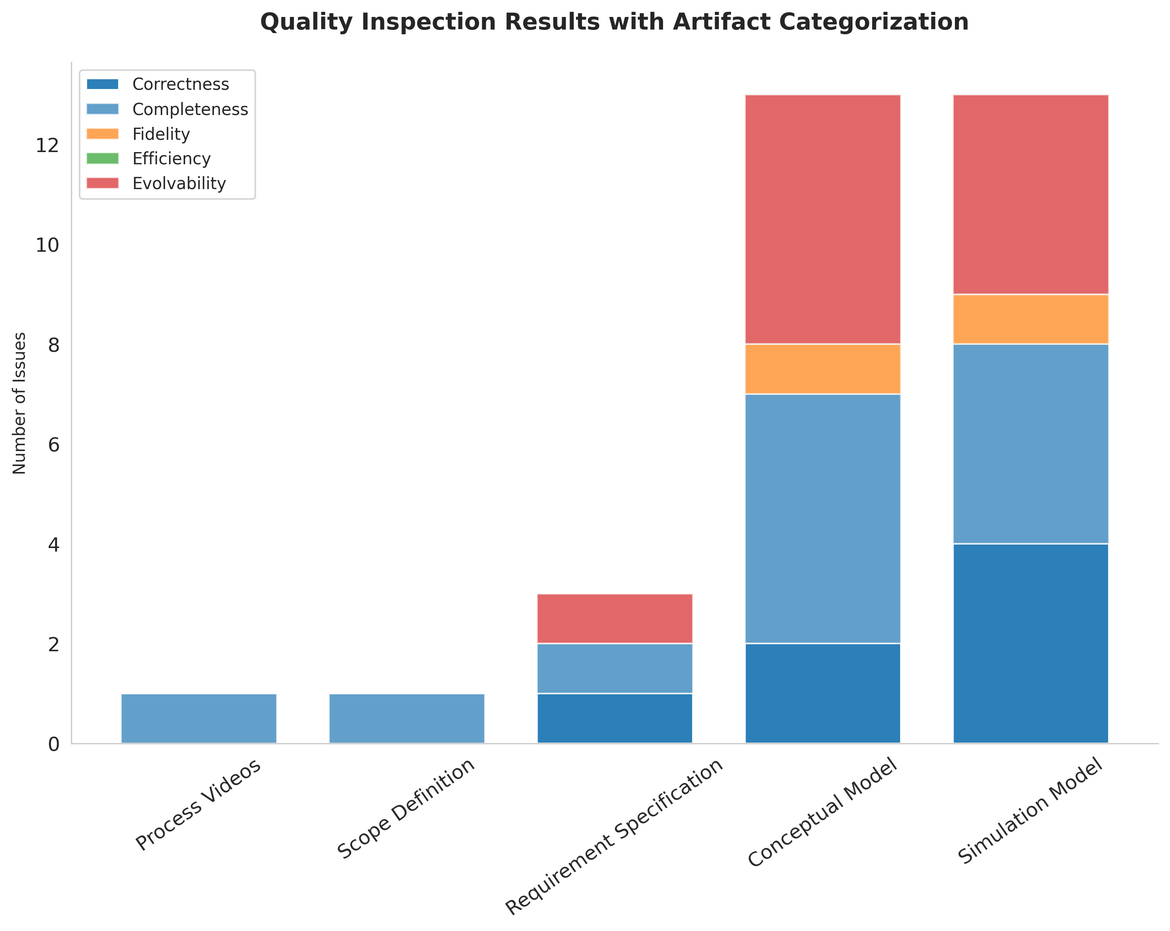
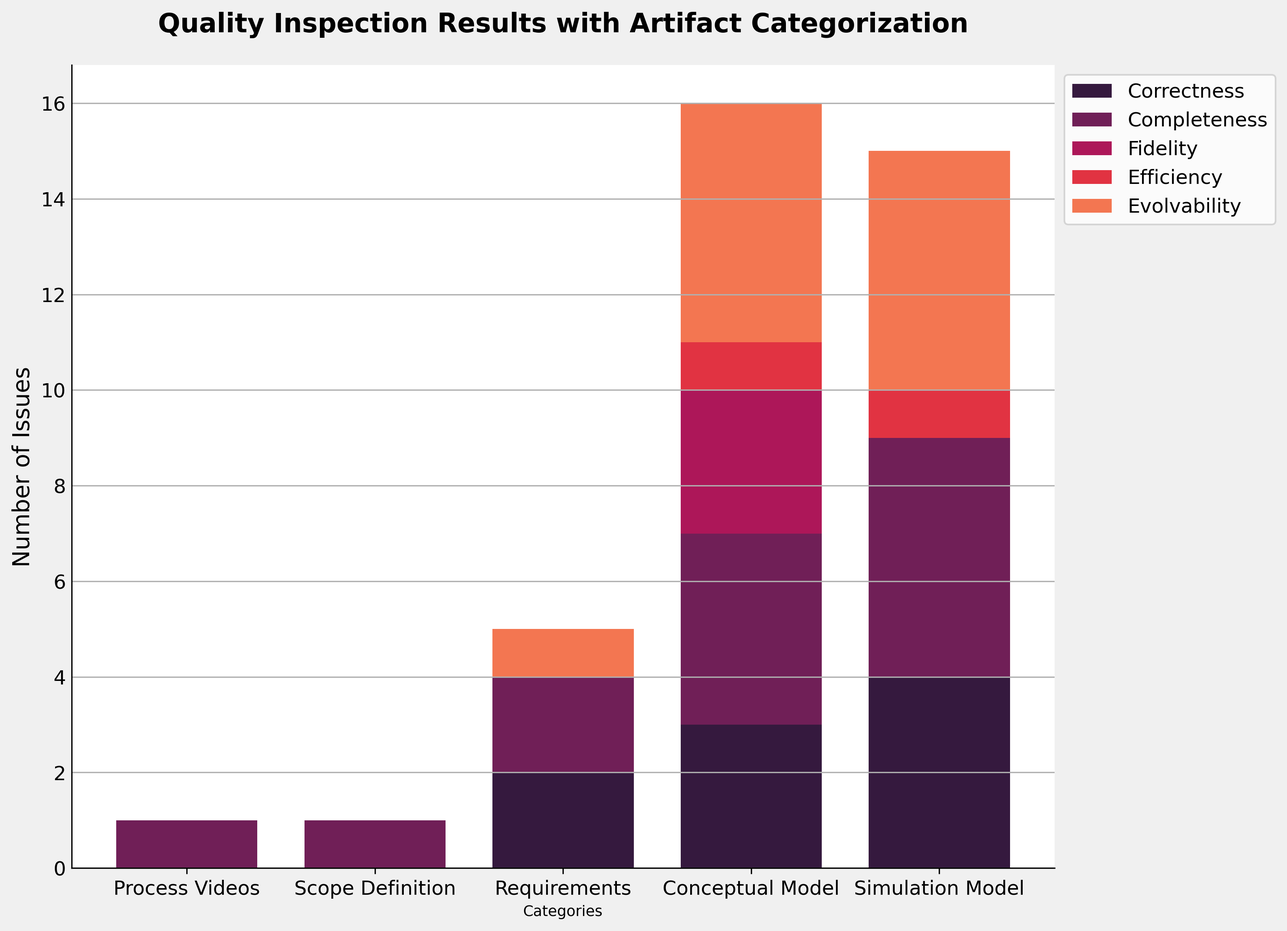
New image added

diff --git a/manuscripts/paper-1/main.tex b/manuscripts/paper-1/main.tex
@@ -38,37 +38,37 @@
     
     The notion of the digital twin, which has gained popularity in 
     recent years, is often subject to vague and ambiguous envisions\cite{Review1}.
-    The mispresenting this notion began with the physical twin of the Apollo 13 spacecraft. 
-    The twin of Apollo 13 was merely a tangible replication of the spacecraft that has been utilised in the physical simulations. 
+    The mispresenting of this notion began with the physical twin of the Apollo 13 spacecraft. 
+    The twin of Apollo 13 was merely a tangible replication of the spacecraft that has been utilized in physical simulations. 
     Even though the digital aspect was expected to be present, there wasn't\cite{GrievesApollo13}.
     Another physical twin is the historic D-day map (also known as the Big Board) in Southwick House England, 
-    which was used simultaneously before and during operation, can be argued to be similar. 
-    The board was a twin of the operation, and it included model of battalions and ships that reflected the actual 
-    locations of the corresponding formations. Furthermore, synchronisation was 
+    which was used simultaneously before and during the operation, and can be argued to be similar. 
+    The board was a twin of the operation, and it included models of battalions and ships that reflected the actual 
+    locations of the corresponding formations. Furthermore, synchronization was 
     implemented to give directives from the real system to control the operation 
     flow and to update the physical twin state\cite{AMRC}.
     In contrast, a digital twin is a virtual counterpart of a real system, which should 
     be synchronized with a selected frequency and fidelity\cite{Review1,Review2,digitaltwinconsortium2022}.
     
-    The envision of digital twin emerged from Grieves'es conceptual model, which was called mirrored spaces model in 2002~\cite{Originsofdigitaltwinconcept},
-    and later referenced in 2005 journal article~\cite{2005JournayArticle}. 
+    The envision of a digital twin emerged from Grieves'es conceptual model, which was called mirrored spaces model in 2002~\cite{Originsofdigitaltwinconcept},
+    and later referenced in a 2005 journal article~\cite{2005JournayArticle}. 
     Furthermore, he introduced the information mirroring model, which was his ideal product lifecycle management tool with only one goal. 
-    The goal was to gather as much as  information about the real system to minimize the waste of system's sources such as energy, 
-    time and material. Initially this model had four main parts with real system, 
+    The goal was to gather as much information about the real system to minimize the waste of the system's sources such as energy, 
+    time and material. Initially, this model had four main parts of a real system, 
     virtual system, connection between the real and virtual system and virtual simulations\cite{GrievesPLMBook}. 
-    Later, Grieves removed the latter, in order to simplify the model\cite{Originsofdigitaltwinconcept}.Furthermore, after co-authoring with the Vicker's in 2010, 
-    Grieves decided to use the NASA invented Digital Twin word, instead of information mirroring model\cite{Originsofdigitaltwinconcept}.
+    Later, Grieves removed the latter, to simplify the model\cite{Originsofdigitaltwinconcept}. Furthermore, after co-authoring with Vicker in 2010, 
+    Grieves decided to use the NASA-invented Digital Twin word, instead of the information mirroring model\cite{Originsofdigitaltwinconcept}.
         
     Digital twins are highly intricate and adaptable systems that possess the capability to not only respond to environmental 
     changes but also modify their internal structure \cite{ZHANGUPDATEMETHOD,MobusSystemTheory}. Therefore, ascertaining a 
     requisite level of quality for the construction of a digital twin is an arduous undertaking.
 
-    FELICE is a complex system which  addresses a critical problem in robotics which is the effective integration of human and robot abilities in a collaborative setting. 
+    FELICE is a complex system that addresses a critical problem in robotics which is the effective integration of human and robot abilities in a collaborative setting. 
     This challenge requires the development of sophisticated algorithms and techniques that facilitate seamless communication, cooperation, and coordination between humans and robotic agents. 
     By addressing this issue, FELICE tries to represent a significant advancement in the field of robotics and has the potential to enhance the effectiveness and efficiency of a wide range of 
     human-robot collaborative tasks with the consideration of safety~\cite{FELICE}.
 
-    Main purpose of this study is to identify the quality attributes and inspect several artifacts 
+    The main purpose of this study is to identify the quality attributes and inspect several artifacts 
     with these to evaluate the quality of the digital twin for the FELICE project, 
     which is currently in the design phase~\cite{FELICE}. These artifacts included process videos showing the current 
     assembly procedure, a scope definition, a requirements specification, a general and operational conceptual model, 
@@ -86,47 +86,48 @@
     %%TODO
 
     \section{State of the art on quality}
-    Oxford English Dictionary describes the word quality  either as a noun or as an adjective. 
-    The adjective form indicates, a high standard or excellence. For example, the phrase quality products implies 
-    that quality adds a high standard state to the product. There are several definitions which describes a quality 
-    as a noun,however the impactful definition is the quality as a standard of an entity which is measured against the 
-    different or the similar entities\cite{OxfordDictionary}.This definition clearly shows the relativity of quality.In addition, quality be defined 
+    Oxford English Dictionary describes the word quality either as a noun or an adjective. 
+    The adjective form indicates, a high standard or excellence. For example, the phrase quality products imply 
+    that quality adds a high standard state to the product. Several definitions describe quality 
+    as a noun, however, the impactful definition is the quality as a standard of an entity which is measured against the 
+    different or the similar entities\cite{OxfordDictionary}. This definition clearly shows the relativity of quality. In addition, quality is defined 
     as the degree to which a set of inherent properties of an entity fulfills the given requirements~\cite{ISO9000}.    
     \subsection{Product quality and Management}
     A product is a tangible or intangible system that satisfies the needs or wants of a customer. It could be a physical system like a car, or an abstract system, like a digital twin. 
     Regarding product quality, there are two different aspects~\cite{GrievesPLMBook}.
-    First, quality is an attribute of a product, which meets product specifications. Specifications are mostly defined by the supra-systems subsystems, such as by the stakeholders within the supra-system,  If the stakeholders' expectations, or needs, are met, we can consider high quality.
-    The ability to execute to a specific usage standard is the second facet of product quality. Since this standardization is usually not controllable, unlike the first, the system's quality will be determined by how the implied or obligatory standards are fulfilled.
+    First, quality is an attribute of a product, which meets product specifications. Specifications are mostly defined by the supra-systems subsystems, 
+    such as by the stakeholders within the supra-system,  If the stakeholders' expectations, or needs, are met, we can consider high quality.
+    The ability to execute to a specific usage standard is the second facet of product quality. Since this standardization is usually not controllable, 
+    unlike the first, the system's quality will be determined by how the implied or obligatory standards are fulfilled.
 
-    Quality management is a management type, which has an interest in Quality, and quality assurance is one of the parts of quality management, 
-    which focuses on providing fidelity that quality requirements will be fulfilled. This means that quality assurance is a subsystem of quality management.
 
-    Quality management systems(QMS) are functioning to plan and execute the organizations quality policies and goals. 
-    Examples of such systems can be a standard like ISO 9001 which can provide a framework for an organization, or a data-driven methodology such  as Six-Sigma to reduce defects and improve efficiency. 
-    This concepts  are not new, for example ISO 9001 standard has been established in 1987, and still being regularly updated ~\cite{ISO90012015}. 
+    Quality management systems(QMS) function to plan and execute the organization's quality policies and goals. 
+    Examples of such systems can be a standard like ISO 9001 which can provide a framework for an organization, or a data-driven methodology such as Six Sigma to reduce defects and improve efficiency. 
+    These concepts are not new, for example, ISO 9001 standard has been established in 1987, and is still being regularly updated ~\cite{ISO90012015}. 
     \subsection{Software quality}
-    Software is a combination of programs and data which can be used by the virtual 
-    systems as well as  a physical system like a computer system. In contrast a hardware 
+    Software is a combination of programs and data which can be used by virtual 
+    systems as well as a physical system like a computer system. In contrast, hardware 
     is a physical subsystem of a computer system\cite{OxfordDictionary}. 
 
-    Software Quality is determined by how well software fulfill the requirements that were set. However, those requirements  
-    not always reflect what the stakeholders actually need, hence the quality depends how accurately this requirements were set \cite{IEE730-2014}. 
+    Software Quality is determined by how well software fulfills the requirements that were set. However, those requirements  
+    not always reflect what the stakeholders need, hence the quality depends on how accurately these requirements were set \cite{IEE730-2014}. 
     As a result, functional suitability, performance efficiency, compatibility, usability, reliability, security, maintainability 
-    and portability are the standartized  eight attributes that measure software quality \cite{ISO/IEC:25010}.
+    and portability is the standardized eight attributes that measure software quality \cite{ISO/IEC:25010}.
     
-    Software quality management techniques comes from already used manufacturing techniques in the  industries. For example the  product quality assurance has been used as a software quality management activity with some modifications. For example, in the manufacturing, products will never exactly meet a specification, due to errors in the machining which results in some tolerance area. But in the software systems, or more precise in the virtual systems, it's most of the time not the case. Also its nearly imposible to conclude that, 
-    the software product is fully meet its speficiations. 
-    Hence, most of the quality assesments are subjective process and as a result, the quality attributes should be inspected subjectively \cite{SoftwareEngineering}.  
+    Software quality management techniques come from already used manufacturing techniques in the industries. For example, product quality assurance has been used as a 
+    software quality management activity with some modifications. For example, in manufacturing, products will never exactly meet a specification, due to errors in the machining which results in some tolerance area. 
+    But in the software systems, or more precisely in the virtual systems, it's most of the time, not the case. Also, it's nearly impossible to conclude that, 
+    the software product fully meets its specifications. 
+    Hence, most of the quality assessments are subjective processes and as a result, the quality attributes should be inspected subjectively \cite{SoftwareEngineering}.  
 
     \subsection{Simulation Quality}
     Simulation models are not merely virtual systems; they are also abstracted systems, 
-    which are nothing more than imitations or, to be more precise, abstractions of the real systems. 
-    In fact, everyday, simulation of the real systems occurs in the human brain when prediction of the future outcome or  about the 
-    past state of some occured event required\cite{MobusSystemTheory}. However, most of the simulation processeses are computer 
-    based with software programs. Consequently, the idea of simulation software programs emerges. 
+    which are nothing more than imitations or, to be more precise, abstractions of real systems. 
+    Every day, simulation of the real systems occurs in the human brain when the prediction of the future outcome or about the 
+    past state of some occurred event required\cite{MobusSystemTheory}. However, most of the simulation processes are computer-based with software programs. Consequently, the idea of simulation software programs emerges. 
     For example, ANSYS\cite{Ansys}, ABAQUS\cite{Abaqus}, and AnyLogic\cite{AnyLogic} are examples of these simulation software programs. 
 
-    Validation and verification is used to evaluate the quality characteristics of the simulation 
+    Validation and verification are used to evaluate the quality characteristics of the simulation 
     model \cite{StewartSimulation,VerificationValidationSergent,OsmanBalci}. 
     Validation is the process of evaluating the simulation quality of the model in comparison to 
     the real system from the perspective of the model's intended applications.
@@ -135,7 +136,9 @@
     data concerning the conceptual description and specifications of the 
     model developer\cite{StewartSimulation,VerificationValidationSergent}.
 
-    Various validation and verification techniques can be employed, which can be broadly categorized into six areas: informal, static, dynamic, symbolic, constraint, and formal techniques \cite{balcicategories}\cite{balcitechniques}. Formal techniques involve mathematical formality, whereas informal techniques rely on human intervention and reasoning. Although mathematical techniques are more precise, informal techniques 
+    Various validation and verification techniques can be employed, which can be broadly categorized into six areas: informal, static, dynamic, symbolic, constraint, 
+    and formal techniques \cite{balcicategories}\cite{balcitechniques}. Formal techniques involve mathematical formality, whereas informal techniques rely on human intervention 
+    and reasoning. Although mathematical techniques are more precise, informal techniques 
     are more commonly used \cite{balcicategories}. Also, the use of informal techniques does not imply a lack of structure, but rather a reliance on human expertise and interpretation \cite{balcitechniques}.
     \subsection{Digital twin quality}
     To analyze the state of the digital twin quality, a literature analysis was executed. 
@@ -145,8 +148,8 @@
     To conduct a thorough literature review on digital twin publications, tools such as Google Scholar and Scopus are utilized. Due to the vast amount of available literature, it is necessary to narrow down the scope of the research. 
     Therefore, a multi-level filtering algorithm is employed to refine the search results.
 
-    The first level of filtering for the literature review on digital twin publications involves specific criteria. These include that dissertations must be written in English and 
-    published in a journal or conference, and that the search term must be an exact match. To execute this initial filtration, 
+    The first level of filtering for the literature review on digital twin publications involves specific criteria. These include that dissertation must be written in English and 
+    published in a journal or conference and that the search term must be an exact match. To execute this initial filtration, 
     the following queries are used for Google Scholar and Scopus respectively: "search term" and ALL ("digital twin quality") AND (LIMIT-TO (LANGUAGE, "English")).
 
     After the initial filtering, a second level of manual investigation is necessary. The following criteria are used for this level of filtering:    
@@ -164,25 +167,25 @@
 
     The search for "digital twin verification" initially resulted in 19 hits on Google Scholar and none on Scopus. 
     After the second level of filtering, one duplicate dissertation was removed and two dissertations that were not in 
-    English were also eliminated. As a result, all dissertations were rejected.
+    English was also eliminated. As a result, all dissertations were rejected.
 
     The search for "digital twin validation" initially resulted in 59 hits on Google Scholar and none on Scopus. 
     After the second level of filtering, 4 duplicate dissertations were removed and 4 
     dissertations that were not in English were also eliminated. This left only 8 dissertations that met all the criteria and were reviewed.
     
-    After a thorough review of 17 research papers, a number of significant findings were revealed.
+    After a thorough review of 17 research papers, several significant findings were revealed.
     
-    First, it was noted that Shcherba et al.  focus on the importance of model quality as an observation for a digital twin subsystem. 
+    First, it was noted that Shcherba et al. focuses on the importance of model quality as an observation for a digital twin subsystem. 
     However, they acknowledged that the quality assessment of the digital twin cannot solely rely on models~\cite{Shcherba}. 
 
-    He Zhang et al.  developed a consistency evaluation approach for digital twin models, which can be used to assess their quality. 
+    He Zhang et al. developed a consistency evaluation approach for digital twin models, which can be used to assess their quality. 
     The authors also discuss essential concepts, such as consistency between real and virtual systems and ultra-fidelity models. 
     This article emphasizes the improvement of the service component of the digital twin~\cite{ZHANGEVALUATIONMETHOD}.
 
     He Zhang et al. introduced the updating method for digital twin models in yet another insightful article.
     Once more, the accuracy and coherence of the model concepts were addressed~\cite{ZHANGUPDATEMETHOD}.
 
-    Selch et al.  present a machine-learning approach based on Bayesian networks to track the quality of the digital twin. 
+    Selch et al. present a machine-learning approach based on Bayesian networks to track the quality of the digital twin. 
     The unique aspect of this study is that the authors determine the contributions of subsystems to forecast the overall quality of the digital twin, 
     rather than just analyzing it as a single system. The digital couplings, which are linkages between the subsystems, are also identified as a source of extra uncertainty. 
     However, since only one digital twin has been used in practice, multiple subsystem digital twins have not been validated~\cite{QualityMonitoringofCoupledDigitalTwins}.
@@ -193,7 +196,7 @@
     Edward Y. Hua et al. identify five open problems with digital twin model validation, including modeling realism, data uncertainty, system dynamics, use-case alignment, and reporting invalid modes. To address these challenges, the authors propose a digital-twin model validation framework. The paper also highlights three areas for future research, 
     including uncertainty and sensitivity analysis, model validation of system-of-systems, and combining expert knowledge and collected data ~\cite{ValidationofDigitalTwins}. 
 
-    Finally, Shotaro Hamato et al.  demonstrated successful real-time anomaly detection using the Unscented Kalman Filter with the digital twin model. 
+    Finally, Shotaro Hamato et al. demonstrated successful real-time anomaly detection using the Unscented Kalman Filter with the digital twin model. 
     However, determining the appropriate threshold for anomaly detection remains an issue~\cite{JapeneseKalmanFilterCorrectness}.
 
     Overall, these studies provide valuable insights into various aspects of digital twin quality assessment, 
@@ -203,25 +206,26 @@
     the lack of well-defined quality parameters for digital twins poses a significant challenge in ensuring their quality,
     which necessitates the development of appropriate quality metrics and standards for digital twins.
     \subsection{Digital Twin Quality Attributes}
-    We consolidated our findings from various standards, including ISO/IEC:25010, IEE730-2014, ISO9000, ISO9001, as well as consulted the  Oxford dictionary to synthesize our findings\cite{ISO9000,ISO90012015,ISO/IEC:25010,IEE730-2014,OxfordDictionary}.
+    We consolidated our findings from various standards, including ISO/IEC:25010, IEE730-2014, ISO9000, and ISO9001, as well as consulted the  Oxford dictionary to 
+    synthesize our findings\cite{ISO9000,ISO90012015,ISO/IEC:25010,IEE730-2014, OxfordDictionary}.
     
-    \textbf{Correctness} is a  derived word from the adjective correct, which means that something is error-free in regard to fact or truth. In the context of the digital twins, our fact or truth is a real system hence, correctness is a grade of quality, that indicates an error between the real system and a digital twin system.
+    \textbf{Correctness} is a  derived word from the adjective correct, which means that something is error-free regarding fact or truth. In the context of the digital twins, our fact or truth is a real system hence, correctness is a grade of quality, that indicates an error between the real system and a digital twin system.
     Meanwhile, the quality of being correct is described by the term accuracy \cite{OxfordDictionary}. 
     
     \textbf{Completeness} is a derived word from the word complete, which can be described as an adjective, attribute, or verb\cite{OxfordDictionary}. 
-    The adjectival form of complete is a state of having all the neccesary or appropriate parts\cite{OxfordDictionary}.
+    The adjectival form of complete is a state of having all the necessary or appropriate parts\cite{OxfordDictionary}.
 
     \textbf{Fidelity}
-    Fidelity refers to the degree of exactness with which the real system is copied and represented.Low-fidelity indicates a simplified representation, 
+    Fidelity refers to the degree of exactness with which the real system is copied and represented. Low fidelity indicates a simplified representation, 
     while high-fidelity refers to an accurate and detailed representation of the real system \cite{Review2}. 
     The concept of fidelity has garnered significant attention in recent years and continues to be an important area of research in digital twins\cite{Review2}\cite{Review1}.
 
     \textbf{Efficiency}
-    Efficiency refers to the  quality of  being efficient, and efficient is achieving
-    maximum productivity with minimum wasted effort or expense. The concept of efficiency is tightly coupled to productivity, which  refers to a quality of being productive,
-    also  the word productive can be explained as producing or able to produce large amounts of goods\cite{OxfordDictionary}.  
-    For example time efficiency indicates that,  with the less amount of time as an input, more output with the minimum 
-    waste during the process is desired . Goods of the  digital twin is nothing but an information, which Grieves first 
+    Efficiency refers to the quality of being efficient, and efficiency is achieving
+    maximum productivity with minimum wasted effort or expense. The concept of efficiency is tightly coupled to productivity, which refers to the quality of being productive,
+    also the word productive can be explained as producing or being able to produce large amounts of goods\cite{OxfordDictionary}.  
+    For example, time efficiency indicates that,  with less amount of time as an input, more output with the minimum 
+    waste during the process is desired. Goods of the digital twin are nothing but information, which Grieves first 
     indicated with this Information Mirror Model\cite{GrievesPLMBook}.
 
     \textbf{Evolvability}
@@ -242,13 +246,14 @@
     and a discrete event simulation module that implements the structures prescribed by the conceptual models.
 
     \textbf{Process Videos:}
-    Project partner provided three videos initially to explain the manual assembly procedures performed at each of the three workstations. From the videos,  
-    the sequence of assembly steps were extracted  at least for one product variant. The tools and the parts needed for each assembly operation was observed. Additionally, an approximate duration of each assembly step were estimated, and some ergonomic characteristics of each operation was derived. 
+    The project partner provided three videos initially to explain the manual assembly procedures performed at each of the three workstations. From the videos,  
+    the sequence of assembly steps was extracted at least for one product variant. The tools and the parts needed for each assembly operation were observed. Additionally, the approximate duration of each assembly step 
+    was estimated, and some ergonomic characteristics of each operation were derived. 
     The derivable ergonomic characteristics mainly included the poses and motions performed by the operators.
 
     \textbf{Scope Definition:}
     To better understand the context and focus of the digital twin, 
-    project partner used a methodology based on hierarchical task analysis and the process videos. 
+    the project partner used a methodology based on hierarchical task analysis and the process videos. 
     This resulted in a scope definition that identified entities to be twinned, entities to be tracked, and important areas in the scene. 
     Entities to be twinned needed to be represented accurately in the simulation models, including their position, pose, speed, fatigue, and other state variables. 
     Entities to be tracked, on the other hand, only required position information. The scope definition was based on a floor plan of the production facility, with the three workstations marked as gray rectangles. 
@@ -259,7 +264,7 @@
     (must-, should-, could-, and would-have) to help prioritize development efforts. 
     Finally, the rationale provided a clear explanation for each requirement's inclusion in the specification.
 
-    \textbf{Conceptual Model} was comprised of two parts:  a general conceptual model and an operational conceptual model. Both models provided a description of the assembly line processes, but the operational conceptual model focused on the specific steps of the assembly process, while the general conceptual model focused on higher-level processes and workflows.
+    \textbf{Conceptual Model} was comprised of two parts:  a general conceptual model and an operational conceptual model. Both models described the assembly line processes, but the operational conceptual model focused on the specific steps of the assembly process, while the general conceptual model focused on higher-level processes and workflows.
     The general conceptual model was represented using a general flow chart notation that distinguished between a root node, activity nodes, and decision nodes.
     The operational conceptual model consisted of three spreadsheets, each displaying the sequence of assembly operations performed at one workstation. 
     The assembly operations were divided into macro- and micro-operations, with each macro-operation referring 
@@ -270,24 +275,22 @@
     
     \subsection{Manual Artifact Reviews and Evoluation}
     During the initial stages of the project, when the target system was not yet available, there was a lack of observable data about system behavior that could be utilized for validation. 
-    Instead, informal and potentially incomplete, inconsistent, or incorrect system descriptions had to be relied upon. Therefore, manual reviews were deemed the most suitable tool to account for the characteristics of this situation. Manul review inclueded, audits, inspections, reviews, structural analysis 
-    and walkthroughs with the project partners which was inspiered from the Balci's manual review works \cite{balcitechniques}. Lastly, identified issuess after the reviews were mapped to the quality attributes. 
+    Instead, informal and potentially incomplete, inconsistent, or incorrect system descriptions had to be relied upon. Therefore, manual reviews were deemed the most suitable tool to account for the characteristics of this situation.
+    The manual review included, audits, inspections, reviews, structural analysis 
+    and walkthroughs with the project partners which was inspired by Balci's manual review works \cite{balcitechniques}. Lastly, identified issues after the reviews were mapped to the quality attributes. 
     
     \section{Results}
     
 
     \begin{figure}[htbp]
-        \includegraphics[scale=0.75]{quality_inspection_results.png}
-        \caption{Overall Quality Inspection Results}
-        \label{fig:QualityInspectonResults}
-    \end{figure}\begin{figure}[htbp]
-        \includegraphics[scale = 0.45]{quality_inspection_results_with_artifacts.png}
+        \includegraphics[scale = 0.40]{quality_inspection_results_with_artifacts.png}
         \caption{ Quality Inspection Results Categorized with Artifacts}
         \label{fig:QualityInspectonResultsWithArtifacts}
     \end{figure}
+
     \subsection{Manual Review Result}
     \subsection{Quality Inspection with Quality Attributes}
-    As can be seen in Figures ~\ref{fig:QualityInspectonResults} and ~\ref{fig:QualityInspectonResultsWithArtifacts}, based on our inspection of the given artifacts,
+    As can be seen in Figures and ~\ref{fig:QualityInspectonResultsWithArtifacts}, based on our inspection of the given artifacts,
     we have identified a total of seven correctness issues, eleven completeness issues, and two fidelity issues. 
     It is important to note that we were unable to inspect for efficiency as the project is still in the design phase, 
     and we do not have enough data to make estimations for this attribute. Additionally, all of our inspections were conducted manually, 
